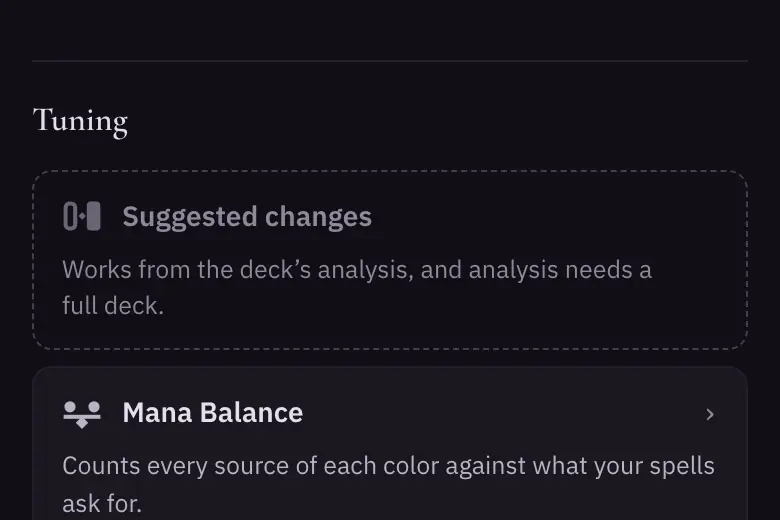
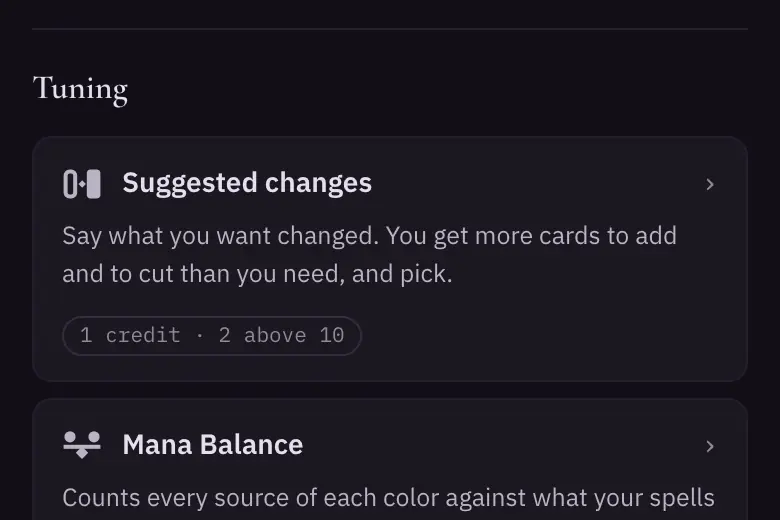
About: recapture the Suggested changes Try it crop with v2 on (#2583)

diff --git a/src/lib/about/shots.generated.ts b/src/lib/about/shots.generated.ts
@@ -783,13 +783,13 @@ export const SHOTS = {
     "tool-suggested-changes": {
       "width": 780,
       "height": 520,
-      "bytes": 13576,
+      "bytes": 14760,
       "quality": 75,
       "halo": [
         0.041,
-        0.3263,
+        0.263,
         0.9179,
-        0.3481
+        0.4702
       ]
     },
     "tool-top-off": {
@@ -1661,13 +1661,13 @@ export const SHOTS = {
     "tool-suggested-changes": {
       "width": 780,
       "height": 520,
-      "bytes": 13158,
+      "bytes": 14586,
       "quality": 75,
       "halo": [
         0.041,
-        0.3263,
+        0.263,
         0.9179,
-        0.3481
+        0.4702
       ]
     },
     "tool-top-off": {
@@ -2539,13 +2539,13 @@ export const SHOTS = {
     "tool-suggested-changes": {
       "width": 780,
       "height": 520,
-      "bytes": 13630,
+      "bytes": 14826,
       "quality": 75,
       "halo": [
         0.041,
-        0.3263,
+        0.263,
         0.9179,
-        0.3481
+        0.4702
       ]
     },
     "tool-top-off": {
@@ -3417,13 +3417,13 @@ export const SHOTS = {
     "tool-suggested-changes": {
       "width": 780,
       "height": 520,
-      "bytes": 12962,
+      "bytes": 14486,
       "quality": 75,
       "halo": [
         0.041,
-        0.3263,
+        0.2662,
         0.9179,
-        0.3481
+        0.4702
       ]
     },
     "tool-top-off": {
@@ -4295,13 +4295,13 @@ export const SHOTS = {
     "tool-suggested-changes": {
       "width": 780,
       "height": 520,
-      "bytes": 13246,
+      "bytes": 14534,
       "quality": 75,
       "halo": [
         0.041,
-        0.3254,
+        0.263,
         0.9179,
-        0.3481
+        0.4702
       ]
     },
     "tool-top-off": {
@@ -5173,13 +5173,13 @@ export const SHOTS = {
     "tool-suggested-changes": {
       "width": 780,
       "height": 520,
-      "bytes": 13790,
+      "bytes": 14504,
       "quality": 75,
       "halo": [
         0.041,
-        0.3263,
+        0.263,
         0.9179,
-        0.3481
+        0.4702
       ]
     },
     "tool-top-off": {
